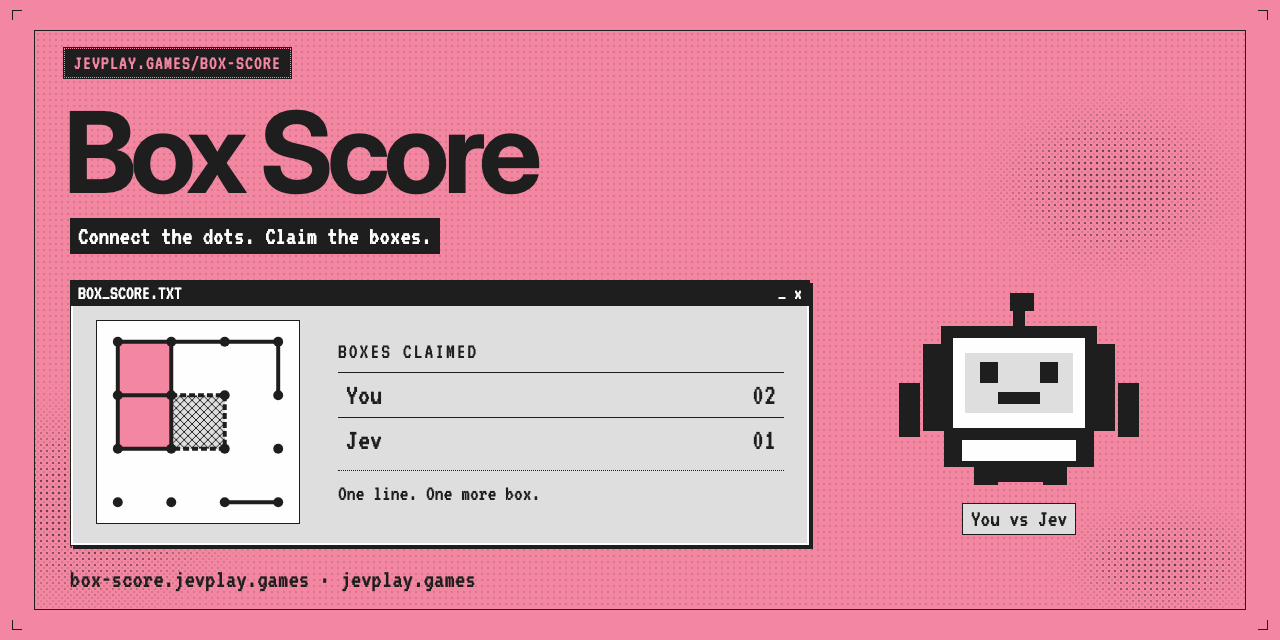
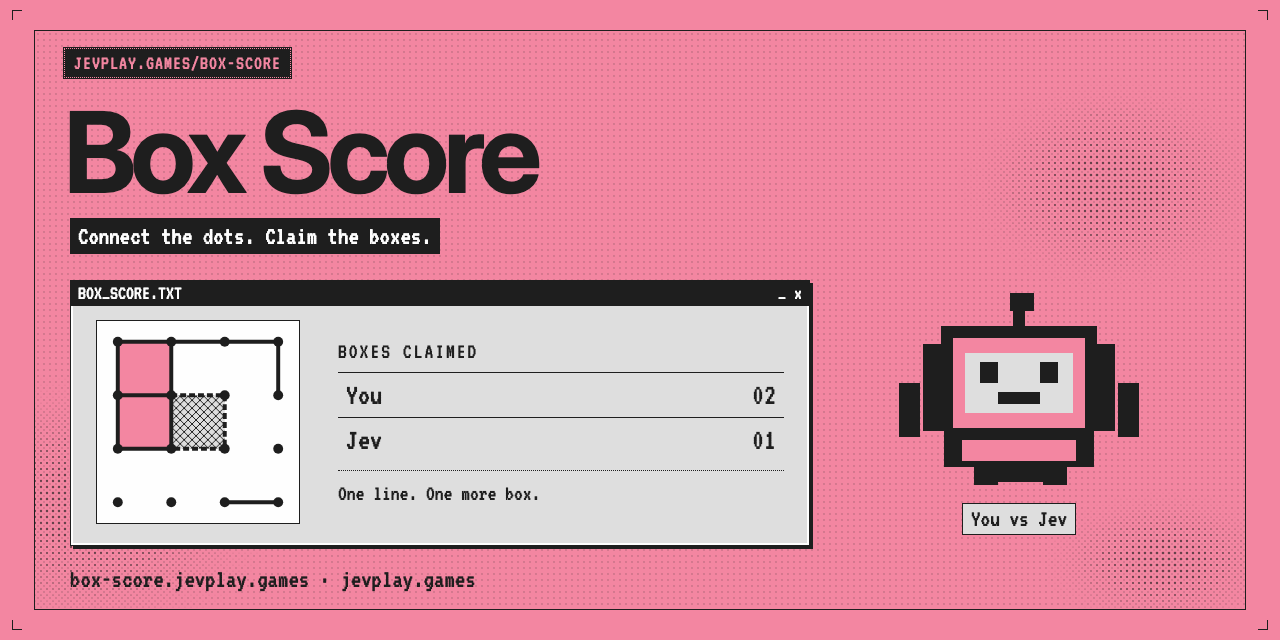
Keep the canonical Jev robot's pink face in the social preview and OG card
D15 makes shared/jev-robot.svg the only Jev drawing: paste it verbatim,
scale it, never recolour it, and keep its face pink. The SVG markup in
assets/src/social.html and og.html was byte-identical to it, but a CSS rule
(.robot path[fill="#F386A1"]{fill:paper}) repainted the face, so the
rendered social-preview.png and og.png showed a paper-faced robot while the
README banner showed the pink one. The rule is gone and both PNGs are
re-rendered with assets/src/render.mjs (Playwright 1.55.1); banner.png,
favicon-32.png and apple-touch-icon.png re-render byte-identical.

banner.html's board window also carried aria-label "Dots-and-boxes board",
a new hit for the #13 acceptance grep; it now reads "Dot-grid board", like
the banner's alt text (no pixel change).

Changed region(s): [[0.7188, 0.5312, 0.875, 0.7188]]

diff --git a/assets/src/banner.html b/assets/src/banner.html
@@ -42,7 +42,7 @@ h1{position:absolute;left:78px;top:107px;font-family:Inter,sans-serif;font-weigh
 <p class="sub">close squares, claim boxes, read the box score</p>
 <div class="chips"><span>+chains</span><span>+double-cross</span><span>+replays</span><span>+analytics</span></div>
 <p class="brand">jevplay.games</p>
-<section class="win board" aria-label="Dots-and-boxes board">
+<section class="win board" aria-label="Dot-grid board">
 <div class="bar"><span>BOARD.EXE</span><span>_ x</span></div>
 <svg viewBox="0 0 168 168" xmlns="http://www.w3.org/2000/svg" role="img" aria-label="Four by four dots with pink human boxes and hatched Jev boxes">
 <defs><pattern id="board-hatch" width="6" height="6" patternUnits="userSpaceOnUse"><rect width="6" height="6" fill="#FEFEFE"/><path d="M-1 1L1-1M0 6L6 0M5 7L7 5" stroke="#1E1E1E" stroke-width="1"/></pattern></defs>

diff --git a/assets/src/social.html b/assets/src/social.html
@@ -29,8 +29,6 @@ th{font-weight:400;text-align:left}td{text-align:right}th,td{border-top:1px soli
 .score-note{border-top:1px dotted var(--ink);padding-top:9px;margin-top:8px;font-size:22px}
 .mascot{position:absolute;left:890px;top:287px;width:258px;text-align:center}
 .robot{display:block;width:258px;height:198px}
-/* Keep the reference SVG verbatim; neutralize its shell for monochrome chrome. */
-.robot path[fill="#F386A1"]{fill:var(--paper)}
 .chips{display:flex;justify-content:center;gap:8px;font-size:24px;line-height:26px;margin-top:18px}.chips span{padding:2px 8px;background:var(--panel);border:1px solid var(--ink)}
 footer{position:absolute;left:70px;bottom:47px;font-size:26px;line-height:28px}
 </style>

diff --git a/assets/src/og.html b/assets/src/og.html
@@ -27,8 +27,6 @@ h1{position:absolute;left:64px;top:156px;font-family:Inter,sans-serif;font-weigh
 .jev{left:875px;top:435px;width:235px}
 .robotbody{display:flex;align-items:center;gap:14px;padding:12px 14px 13px}
 .robot{display:block;width:86px;height:66px;flex:none}
-/* Keep the reference SVG intact; use monochrome panels for this card. */
-.robot path[fill="#F386A1"]{fill:var(--paper)}
 .status{font-size:22px;line-height:22px}
 .brand{position:absolute;left:68px;bottom:48px;font-size:22px;line-height:24px}
 </style>
